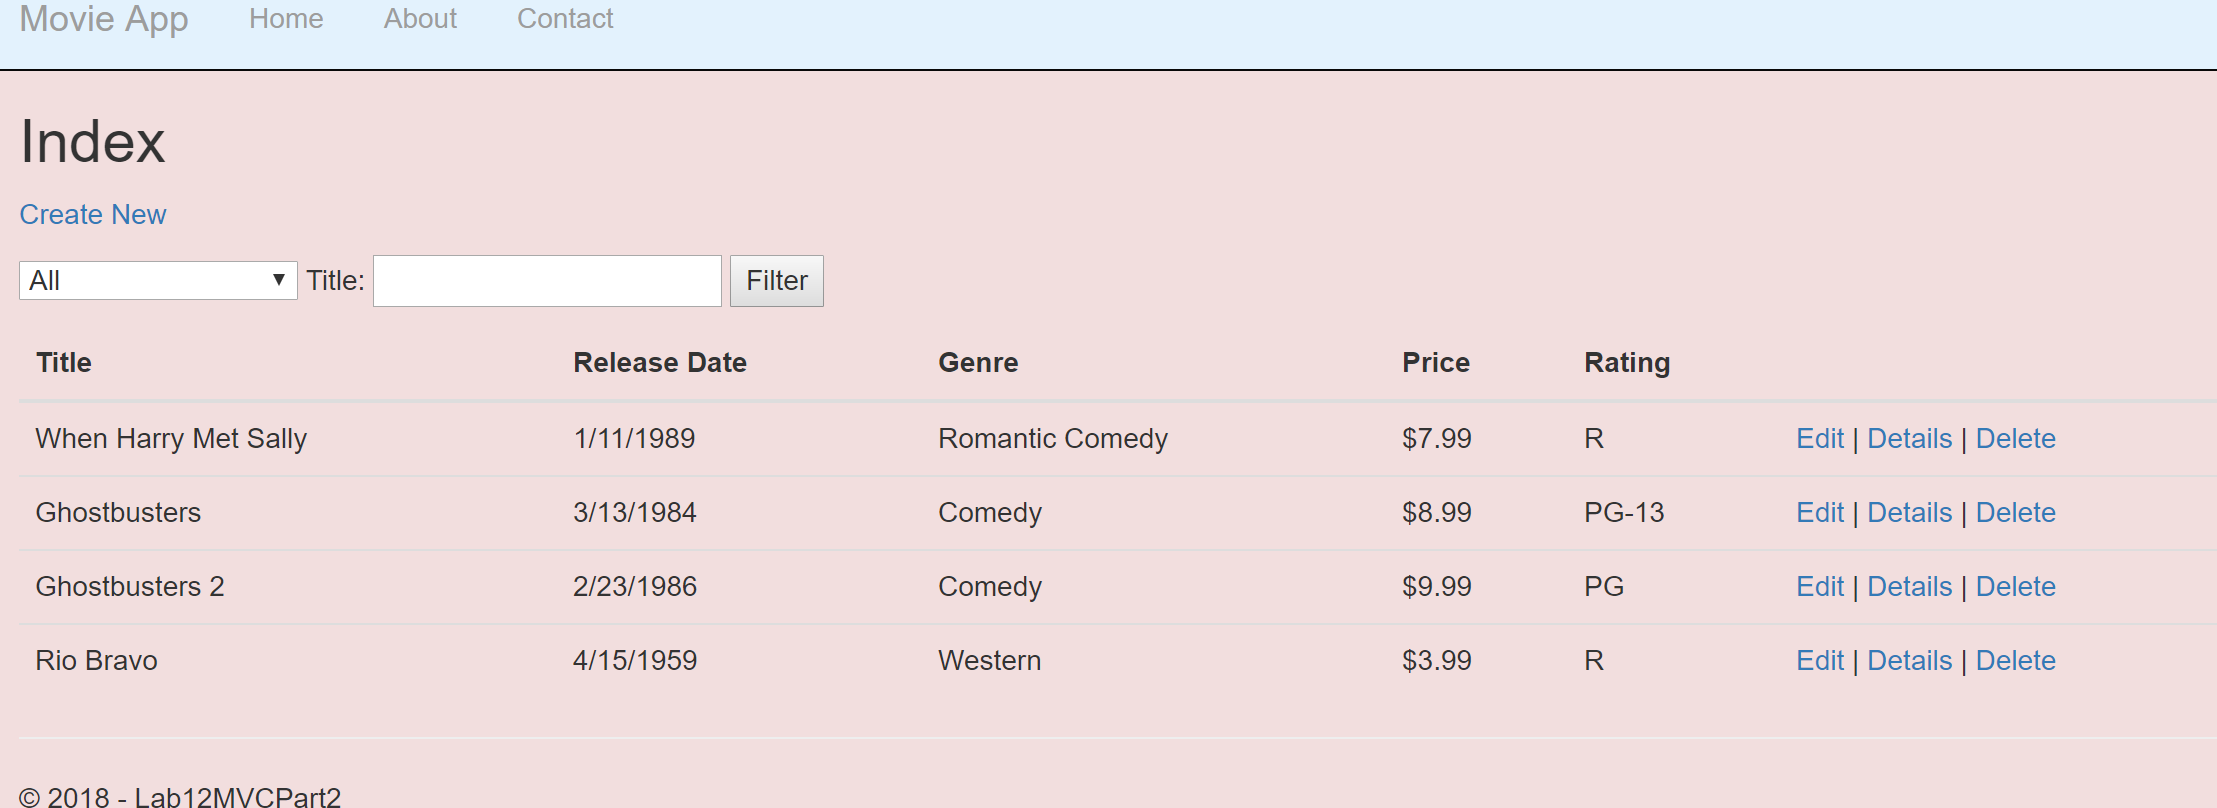
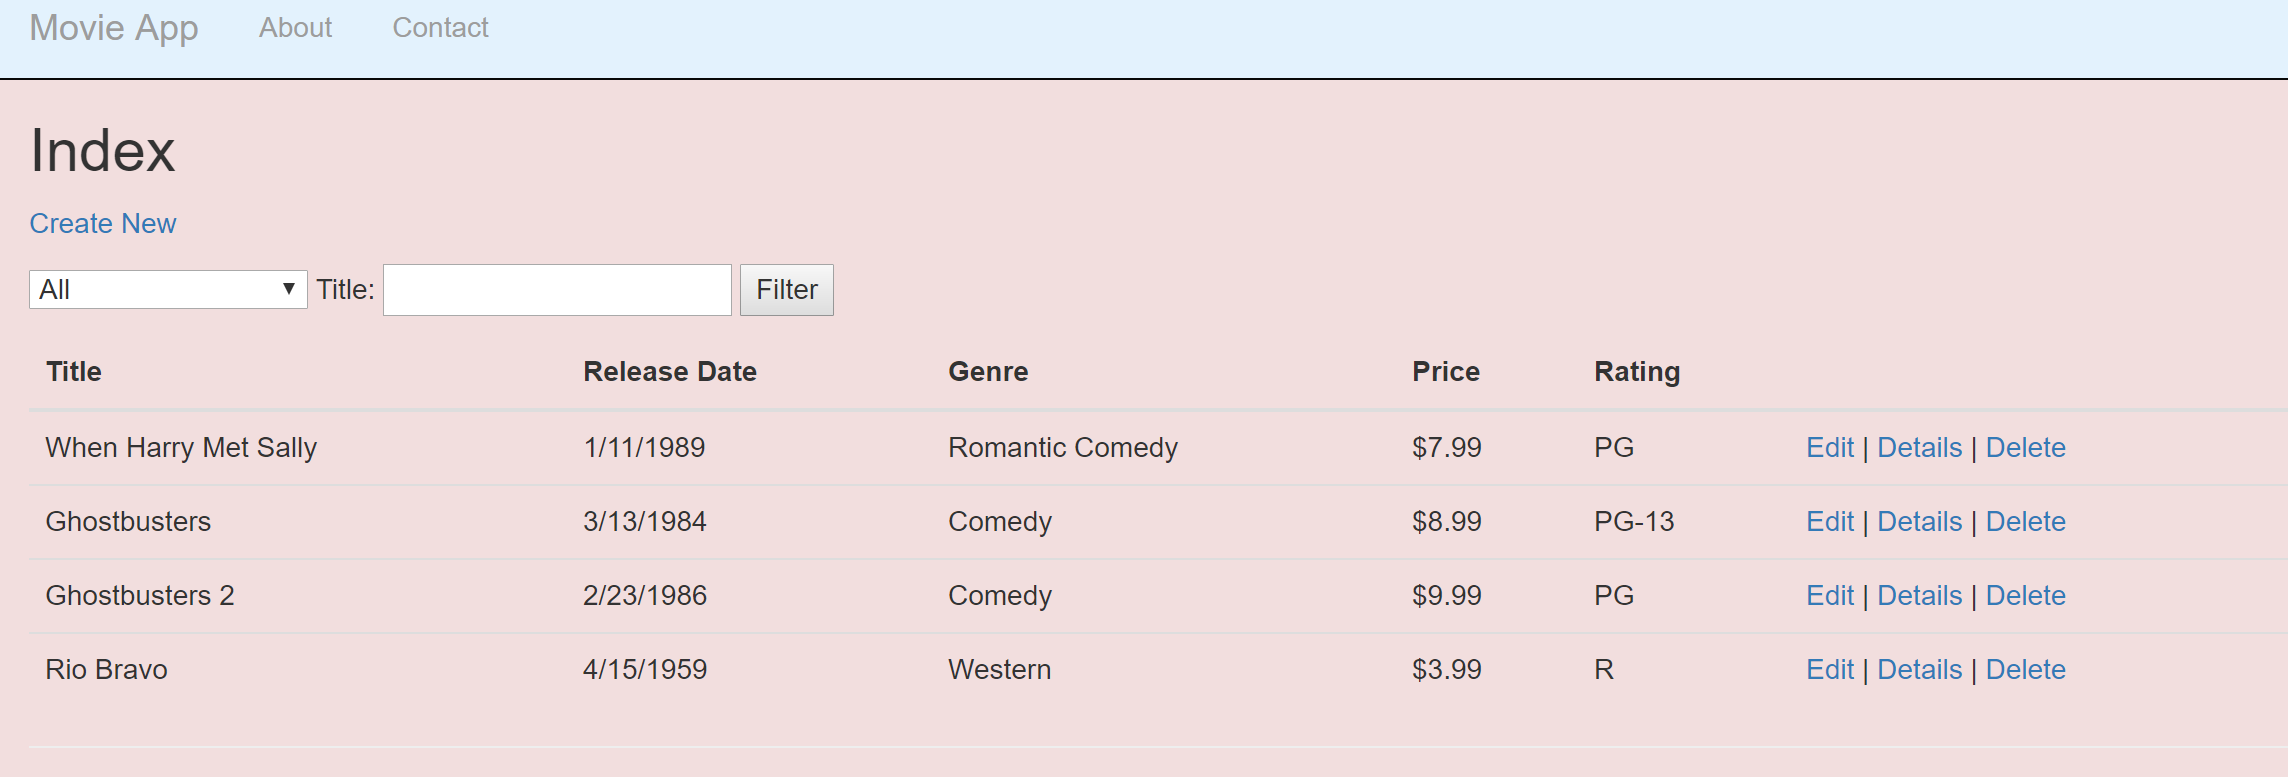
Updated so the application routes to MovieApp and fixed readme to reflect this

diff --git a/Lab12MVCPart2/Lab12MVCPart2/Controllers/MoviesController.cs b/Lab12MVCPart2/Lab12MVCPart2/Controllers/MoviesController.cs
@@ -44,13 +44,6 @@ namespace Lab12MVCPart2.Controllers
 
             return View(movieGenreVM);
         }
-
-        //[HttpPost]
-        //public string Index(string searchString, bool notUsed)
-        //{
-        //    return "From [HttpPost]Index: filter on " + searchString;
-        //}
-
         // GET: Movies/Details/5
         public async Task<IActionResult> Details(int? id)
         {

diff --git a/Lab12MVCPart2/Lab12MVCPart2/Controllers/HomeController.cs b/Lab12MVCPart2/Lab12MVCPart2/Controllers/HomeController.cs
@@ -12,7 +12,7 @@ namespace Lab12MVCPart2.Controllers
     {
         public IActionResult Index()
         {
-            return View();
+            return RedirectToAction("Index", "Movies");
         }
 
         public IActionResult About()

diff --git a/README.md b/README.md
@@ -19,10 +19,6 @@ Update-Database
 
 * Landing page
 
-![MVC app home](mvc-home.PNG)
-
-* If you click on Movie App link
-
 ![MVC movie Results Page](mvc-movie.PNG)
 
 * The other links are also interactive and have some some small implementation of bootstrap elements on their views
